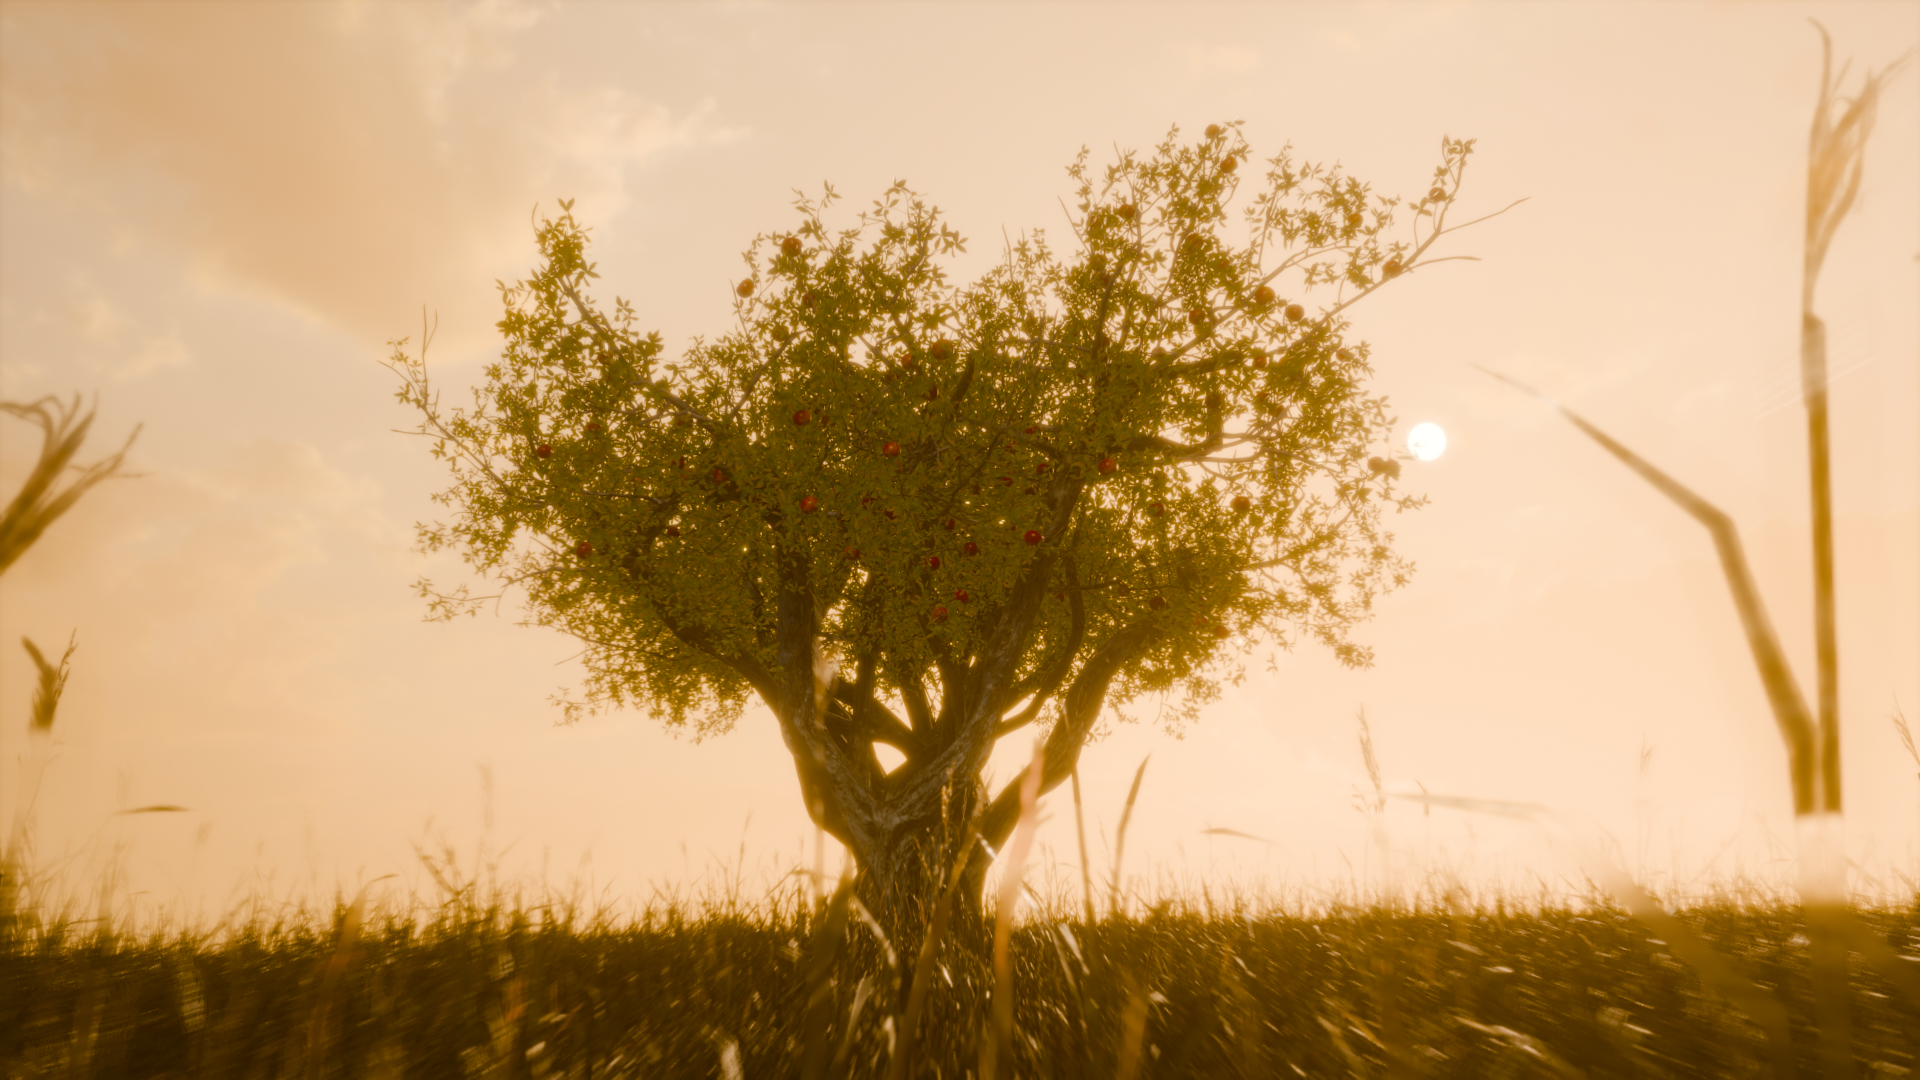
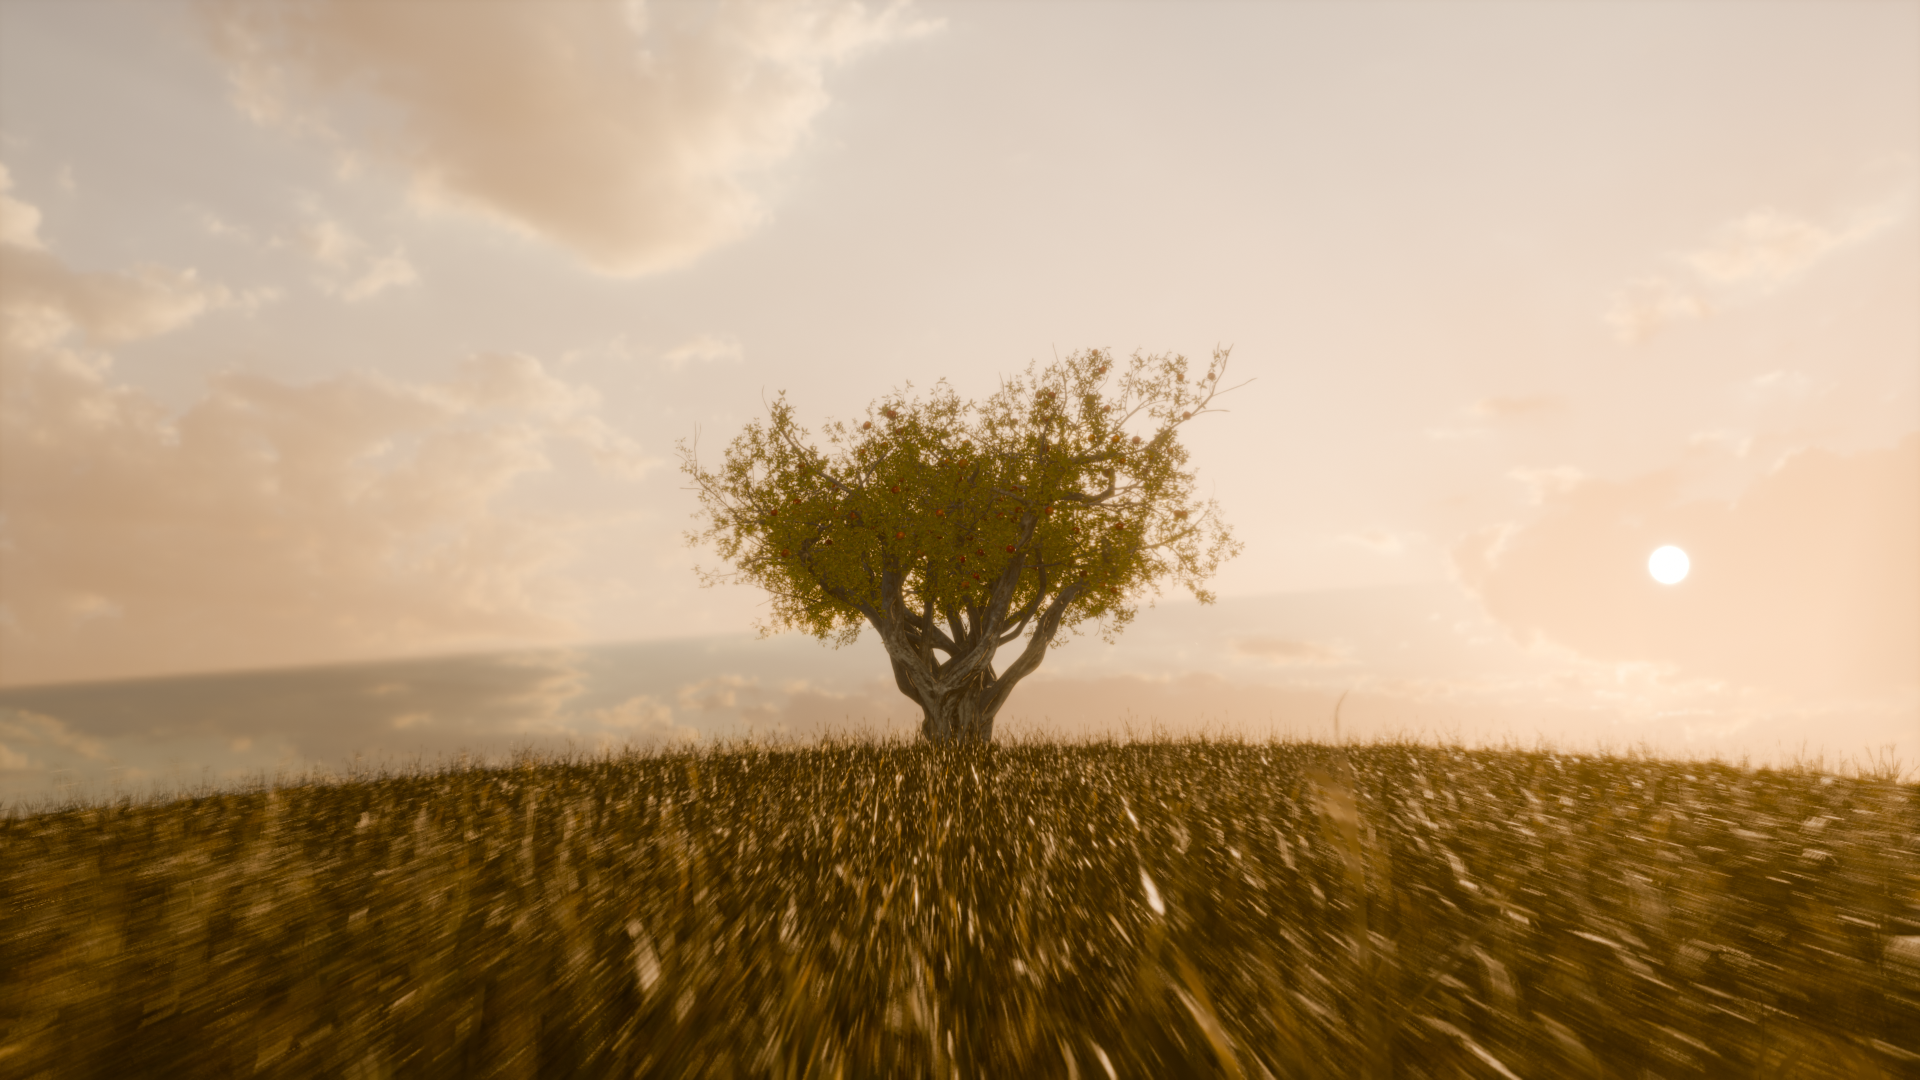
Site polish: Almost Ripe, a legible owl, new Eden still
- Work: add "Almost Ripe" (copy from the piece itself), featured full
  width on Home; the rest pair up. works.ts documents how to add the
  next work (e.g. "Attention in space"); no placeholder entries.
- Owl: redrawn as a perched barn owl, bright heart-shaped face in a
  half-light silhouette, so it reads at 1440 (the face-only mask did not).
- Eden: cover is the sharper stills-preview/2-tree.png; status now says
  best-version preview before the final render (Joe stopped the final).
- Work lead and description are generated from the works list.

Gates PASS. Lighthouse and the 375/1440 screenshots wait until the
Blender preview render on this Mac finishes.

diff --git a/src/data/works.ts b/src/data/works.ts
@@ -1,10 +1,22 @@
-// Case-study copy is written from each project's SPEC.md (~/Developer/micrograd-3d, ~/Developer/eden-film).
-// Keep it factual: no claims that the specs, commits or renders don't back up.
+// The site's list of works. Home and Work render whatever is here, in this order;
+// the first entry is the featured (full-width) card on Home.
+// Case-study copy comes from each project's own material: SPEC.md for micrograd 3D (~/Developer/micrograd-3d)
+// and Eden (~/Developer/eden-film); the piece itself for Almost Ripe (vault 02 Projects/作品集/04 Almost Ripe/).
+// Keep it factual: no claims that the specs, commits, renders or the piece don't back up.
+//
+// To add a work (e.g. "Attention in space" once it has material in the vault):
+//   1. copy its stills into src/assets/ (16:9 or wider reads best; 1920 px wide if available);
+//   2. import them below and add one entry to `works` with id, title, tagline, year, form, tools,
+//      status, live, cover (+ optional extra) and What / How / Next sections;
+//   3. `npm test`: check-site fails on a missing alt text or a broken link.
+// No placeholder entries: a work appears only when it has real images and facts.
 import type { ImageMetadata } from 'astro';
 import micrograd from '../assets/micrograd-3d.png';
 import microgradNetwork from '../assets/micrograd-3d-network.png';
 import edenTree from '../assets/eden-tree.png';
 import edenAerial from '../assets/eden-aerial.png';
+import almostRipeTower from '../assets/almost-ripe-tower.png';
+import almostRipeCorridor from '../assets/almost-ripe-corridor.png';
 
 export interface Work {
   id: string;
@@ -21,6 +33,44 @@ export interface Work {
 }
 
 export const works: Work[] = [
+  {
+    id: 'almost-ripe',
+    title: 'Almost Ripe',
+    tagline: 'A night inside the Caretaker.',
+    year: '2026',
+    form: 'Interactive story, about three minutes',
+    tools: 'three.js · Web Audio API · Claude',
+    status: 'Finished, private for now',
+    live: false,
+    cover: {
+      src: almostRipeTower,
+      alt: 'A dark monolithic tower under a moonlit, cloudy sky, a thin beam of light sweeping from its top. Two choices float above a small figure: “look away” and “keep walking”.',
+      caption: 'The tower, and the choice: look away, or keep walking.',
+    },
+    extra: {
+      src: almostRipeCorridor,
+      alt: 'A long dark corridor between walls of tiny blinking blue and amber lights, the tower glowing at its far end.',
+      caption: 'The corridor.',
+    },
+    sections: [
+      {
+        heading: 'What',
+        body: [
+          'An original story you walk through in the browser, with headphones, in about three minutes. Five people are left. Something keeps them: every night it rebuilds the world from what they remember, almost perfectly.',
+        ],
+      },
+      {
+        heading: 'How',
+        body: [
+          'Built with Claude, three.js and the Web Audio API. Every surface, light and sound in the piece is generated in code. You walk with the keyboard or by holding a finger down, and look by dragging. At one point the piece asks you to choose: look away, or keep walking.',
+        ],
+      },
+      {
+        heading: 'Next',
+        body: ['Finished after two polish rounds on the tree, the grass and the shatter. Private for now.'],
+      },
+    ],
+  },
   {
     id: 'micrograd-3d',
     title: 'micrograd 3D',
@@ -69,12 +119,12 @@ export const works: Work[] = [
     year: '2026',
     form: 'Short film, 16 seconds',
     tools: 'Blender · Python · EEVEE',
-    status: 'Final 1080p render in progress',
+    status: 'Best-version preview, then the final 1080p render',
     live: true,
     cover: {
       src: edenTree,
-      alt: 'A lone apple tree with red apples on a hillside of tall golden grass, backlit by a low sun in a warm hazy sky.',
-      caption: 'Shot 7: the apple tree at golden hour. Approved still, 1920 × 1080.',
+      alt: 'A lone apple tree on the crest of a hill of golden grass, a low sun to its right in a pale, cloudy evening sky.',
+      caption: 'Shot 7: the apple tree on the crest at golden hour. Preview still, 1920 × 1080.',
     },
     extra: {
       src: edenAerial,
@@ -97,7 +147,7 @@ export const works: Work[] = [
       {
         heading: 'Next',
         body: [
-          'Up close, the houses and the campus still read as CG; the last shot leans on haze, canopy and light. The final render is running now.',
+          'Up close, the houses and the campus still read as CG; the last shot leans on haze, canopy and light. A best-version pass is in review; the final 1080p render follows.',
         ],
       },
     ],
